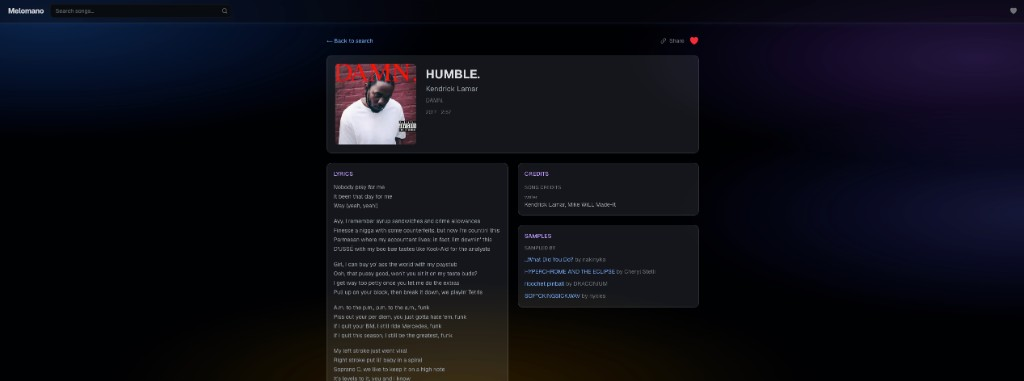
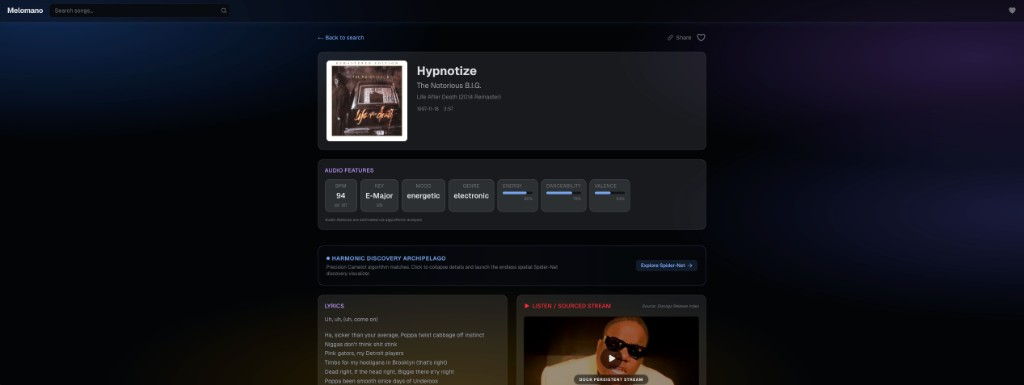
add new readme (#2)

Changed region(s): [[0.3125, 0.0866, 0.6875, 1.0], [0.0, 0.0, 0.0312, 0.0577]]

diff --git a/README.md b/README.md
@@ -10,24 +10,26 @@
 
 ## About
 
-Finding complete information about a song — lyrics, BPM, musical key, writing credits, sample relationships, album art — requires searching 5+ different sites. Melomano aggregates data from six free APIs into a single page with streaming UI that shows fast data immediately while slower sources load in the background.
+Finding complete information about a song — lyrics, BPM, musical key, writing credits, sample relationships, album art — requires searching many different sites. Melomano aggregates free music APIs into a single streaming page, then goes further with **Spider-Net**: Camelot-compatible harmonic discovery so you can explore related tracks without leaving the song view.
 
 ## Features
 
-- **Search** — MusicBrainz-backed with Lucene query building and artist-scoped results
+- **Search** — iTunes Search results, resolved to a MusicBrainz recording (MBID) for the song page
 - **Lyrics** — LRCLIB with exact match + fuzzy fallback (88%+ hit rate on mainstream songs)
 - **Audio features** — BPM, key, energy, danceability, mood, genre via FreqBlog
 - **Credits** — Writers and producers from MusicBrainz + supplemental credits (mastering, photography, etc.) from Discogs
 - **Sample relationships** — "samples" and "sampled by" from MusicBrainz work-level relations
-- **Album art** — Cover Art Archive with shimmer loading and gradient fallback
-- **Streaming UI** — MusicBrainz fires first, then four sources load in parallel, each in its own Suspense boundary. Fast data appears in ~0.4s; full page in ~2.5s cold, <100ms cached
+- **Album art** — Cover Art Archive first, with iTunes / Discogs fallbacks, shimmer loading, and gradient placeholder
+- **Spider-Net** — Camelot-compatible neighbors in an exploratory graph on the song page (denser when more songs with BPM/key are cached)
+- **YouTube** — Discogs-sourced videos with a persistent global drawer player
+- **Streaming UI** — Core MusicBrainz data first, then parallel sources each in their own Suspense boundary. Fast data appears in ~0.4s; full page in ~2.5s cold, <100ms cached
 - **Favorites & recent searches** — localStorage-based, no sign-up required
 - **Dynamic OG images** — Per-song 1200x630 cards with album art, generated via Satori
 - **Postgres caching** — Aggregated song data cached in Neon; repeat lookups skip all API calls
 
 | | |
 |---|---|
-| ![Home page](docs/screenshots/home.png) | ![Search results](docs/screenshots/search-results.png) |
+| ![Spider-Net harmonic discovery](docs/screenshots/spider-net.png) | ![Search results](docs/screenshots/search-results.png) |
 
 ## Tech Stack
 
@@ -63,14 +65,26 @@ npm run dev
 | `NEXT_PUBLIC_CLERK_PUBLISHABLE_KEY` | No | Clerk auth (app works without it) |
 | `CLERK_SECRET_KEY` | No | Clerk auth (app works without it) |
 
+## Populate the cache (Spider-Net density)
+
+Spider-Net recommendations work best when Neon already holds many songs with BPM and key. Warm the cache with a curated seed set (artist/title list lives in the script — not listed here):
+
+```bash
+npm run cache:warm
+```
+
+This runs each seed track through iTunes → MBID resolve → MusicBrainz + FreqBlog + lyrics + Discogs, then writes Postgres. Tracks that already have BPM and key cached are skipped. Expect several minutes: the script throttles ~1.5s between tracks to stay polite with upstream APIs.
+
+**Notes:** Requires a valid `.env.local` (same keys as local dev). Uses FreqBlog and Discogs quota — avoid running repeatedly on a free tier unless you need a refill. Safe to re-run after partial failures.
+
 ## Testing
 
 ```bash
-npm test          # Run all 46 tests
+npm test          # Run all 59 tests
 npx vitest --ui   # Interactive test UI
 ```
 
-Tests cover the pure business logic in `src/lib/`: search query building, release selection heuristics, credit extraction, fuzzy lyric matching, format normalization, and API response mapping. Each API wrapper has mocked-fetch tests for success, failure, and edge cases.
+Tests cover the pure business logic in `src/lib/`: iTunes resolve helpers, release selection heuristics, credit extraction, fuzzy lyric matching, format normalization, and API response mapping. Each API wrapper has mocked-fetch tests for success, failure, and edge cases.
 
 ## Note on Repo Name
 
